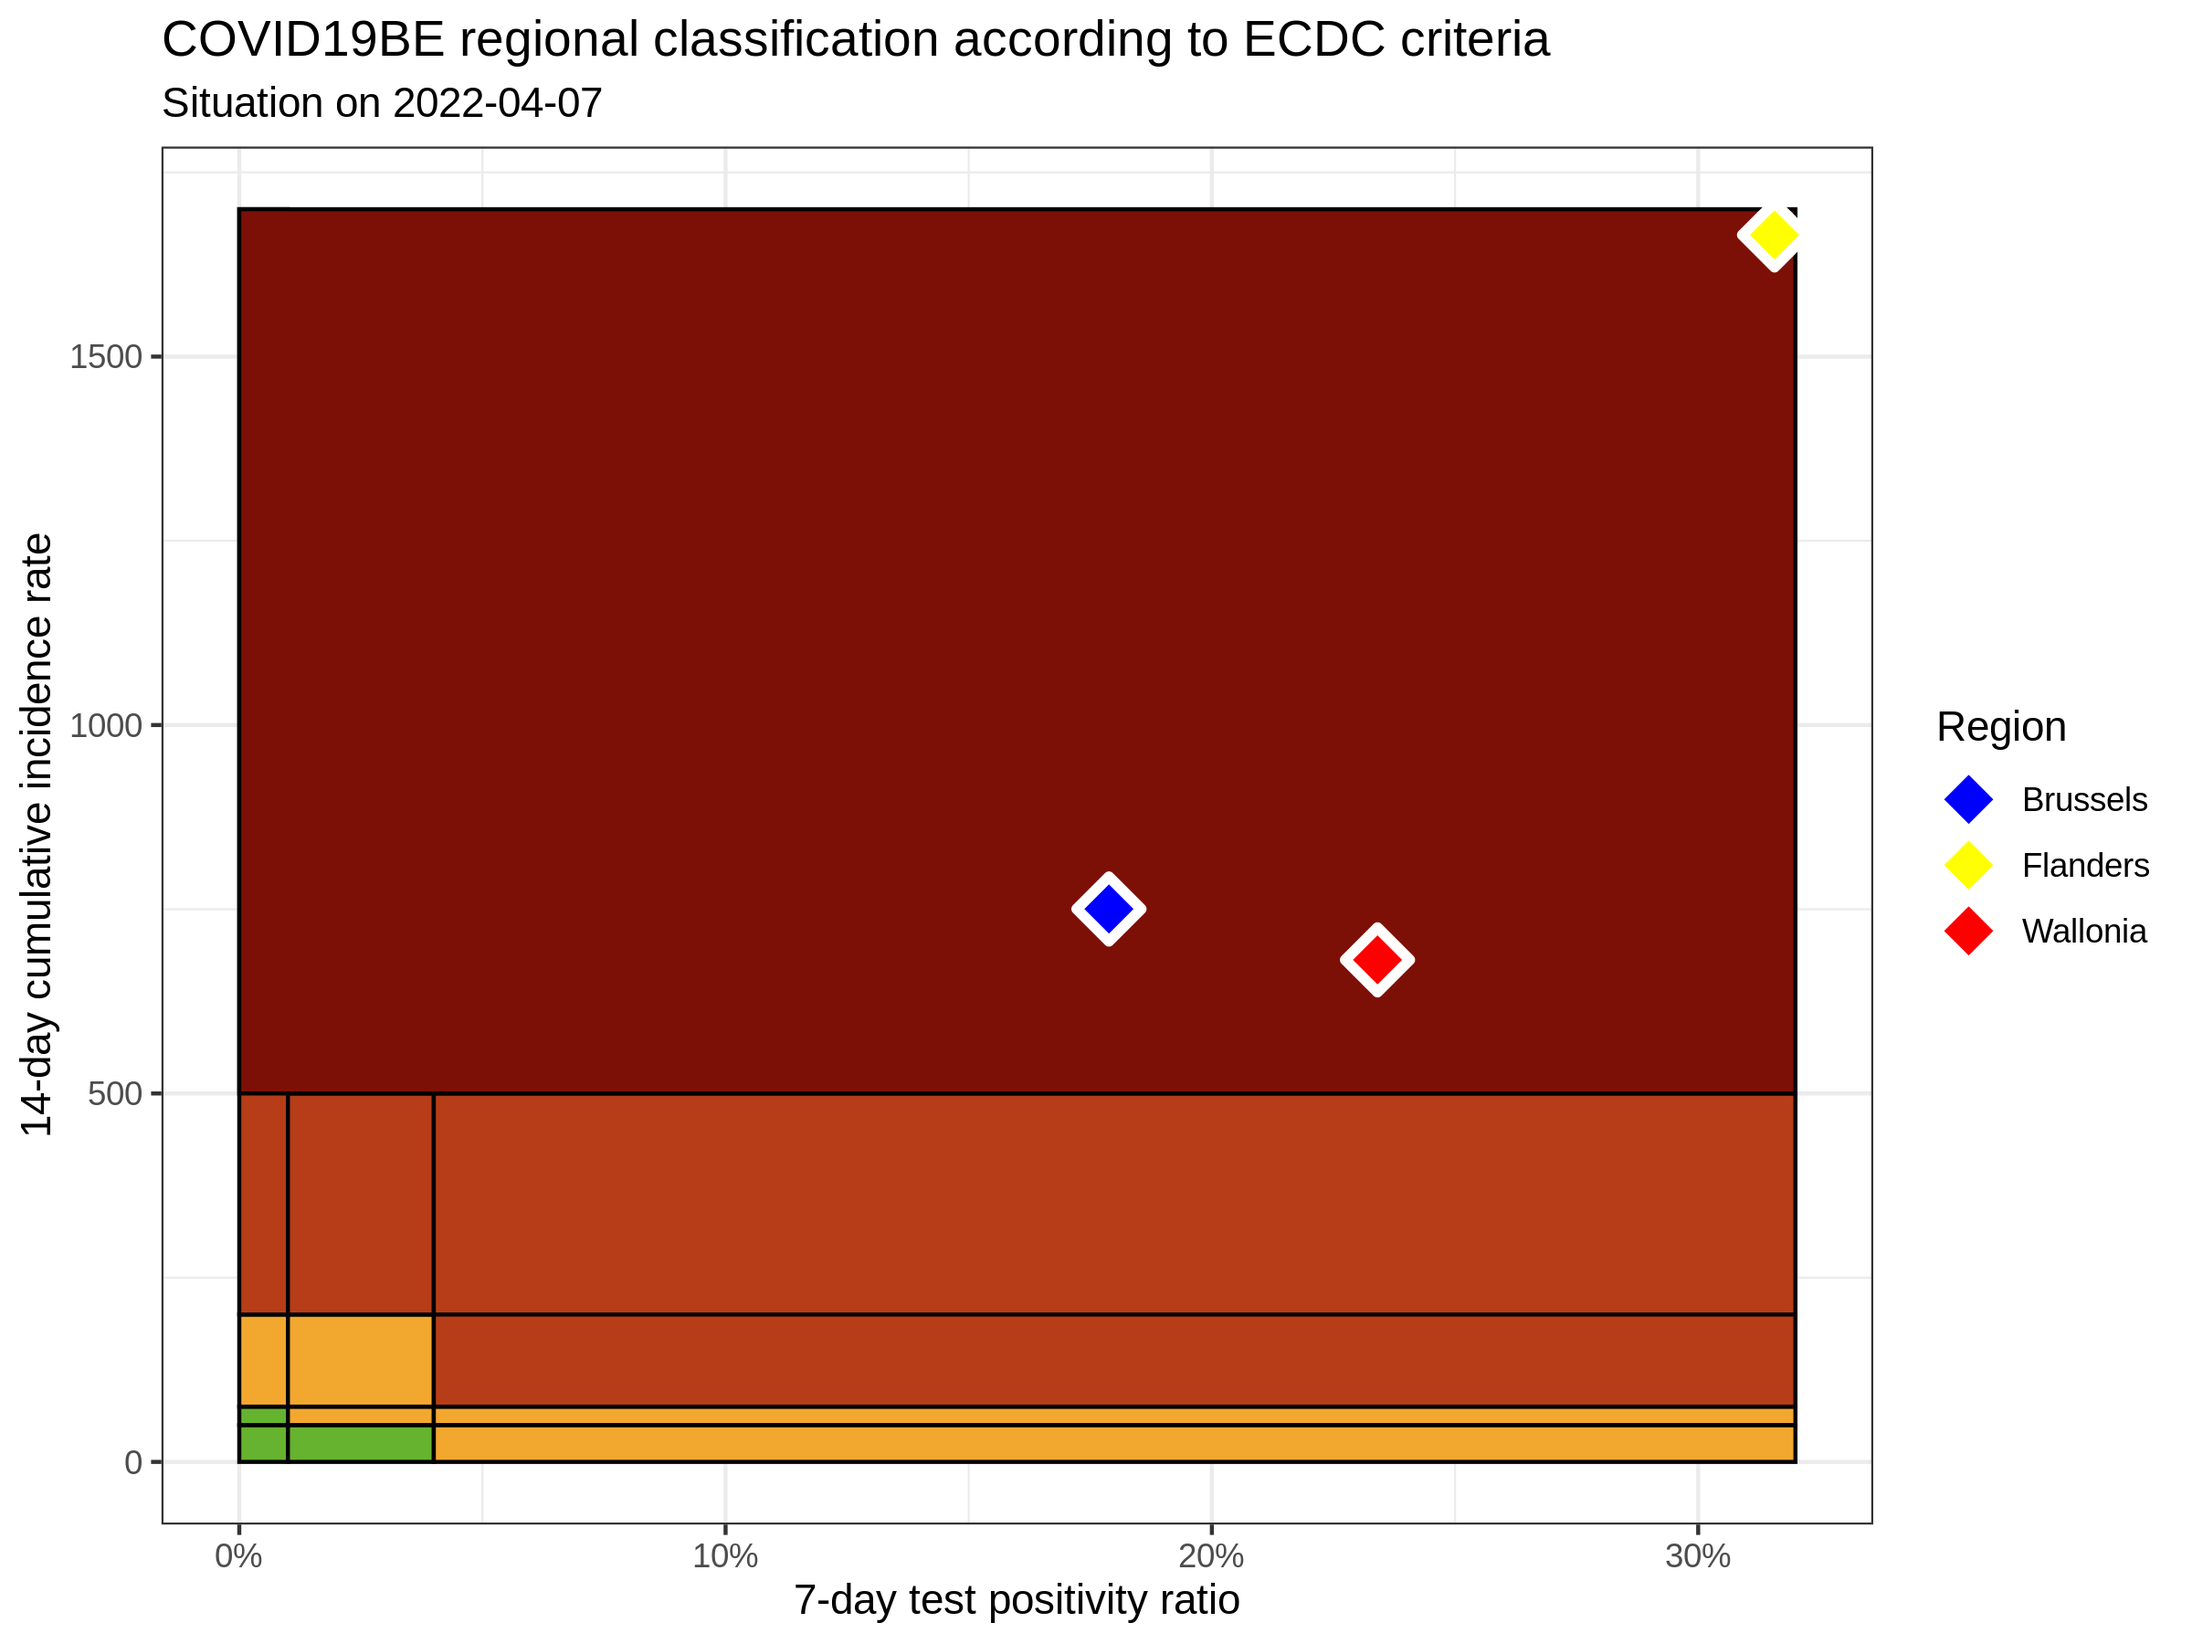
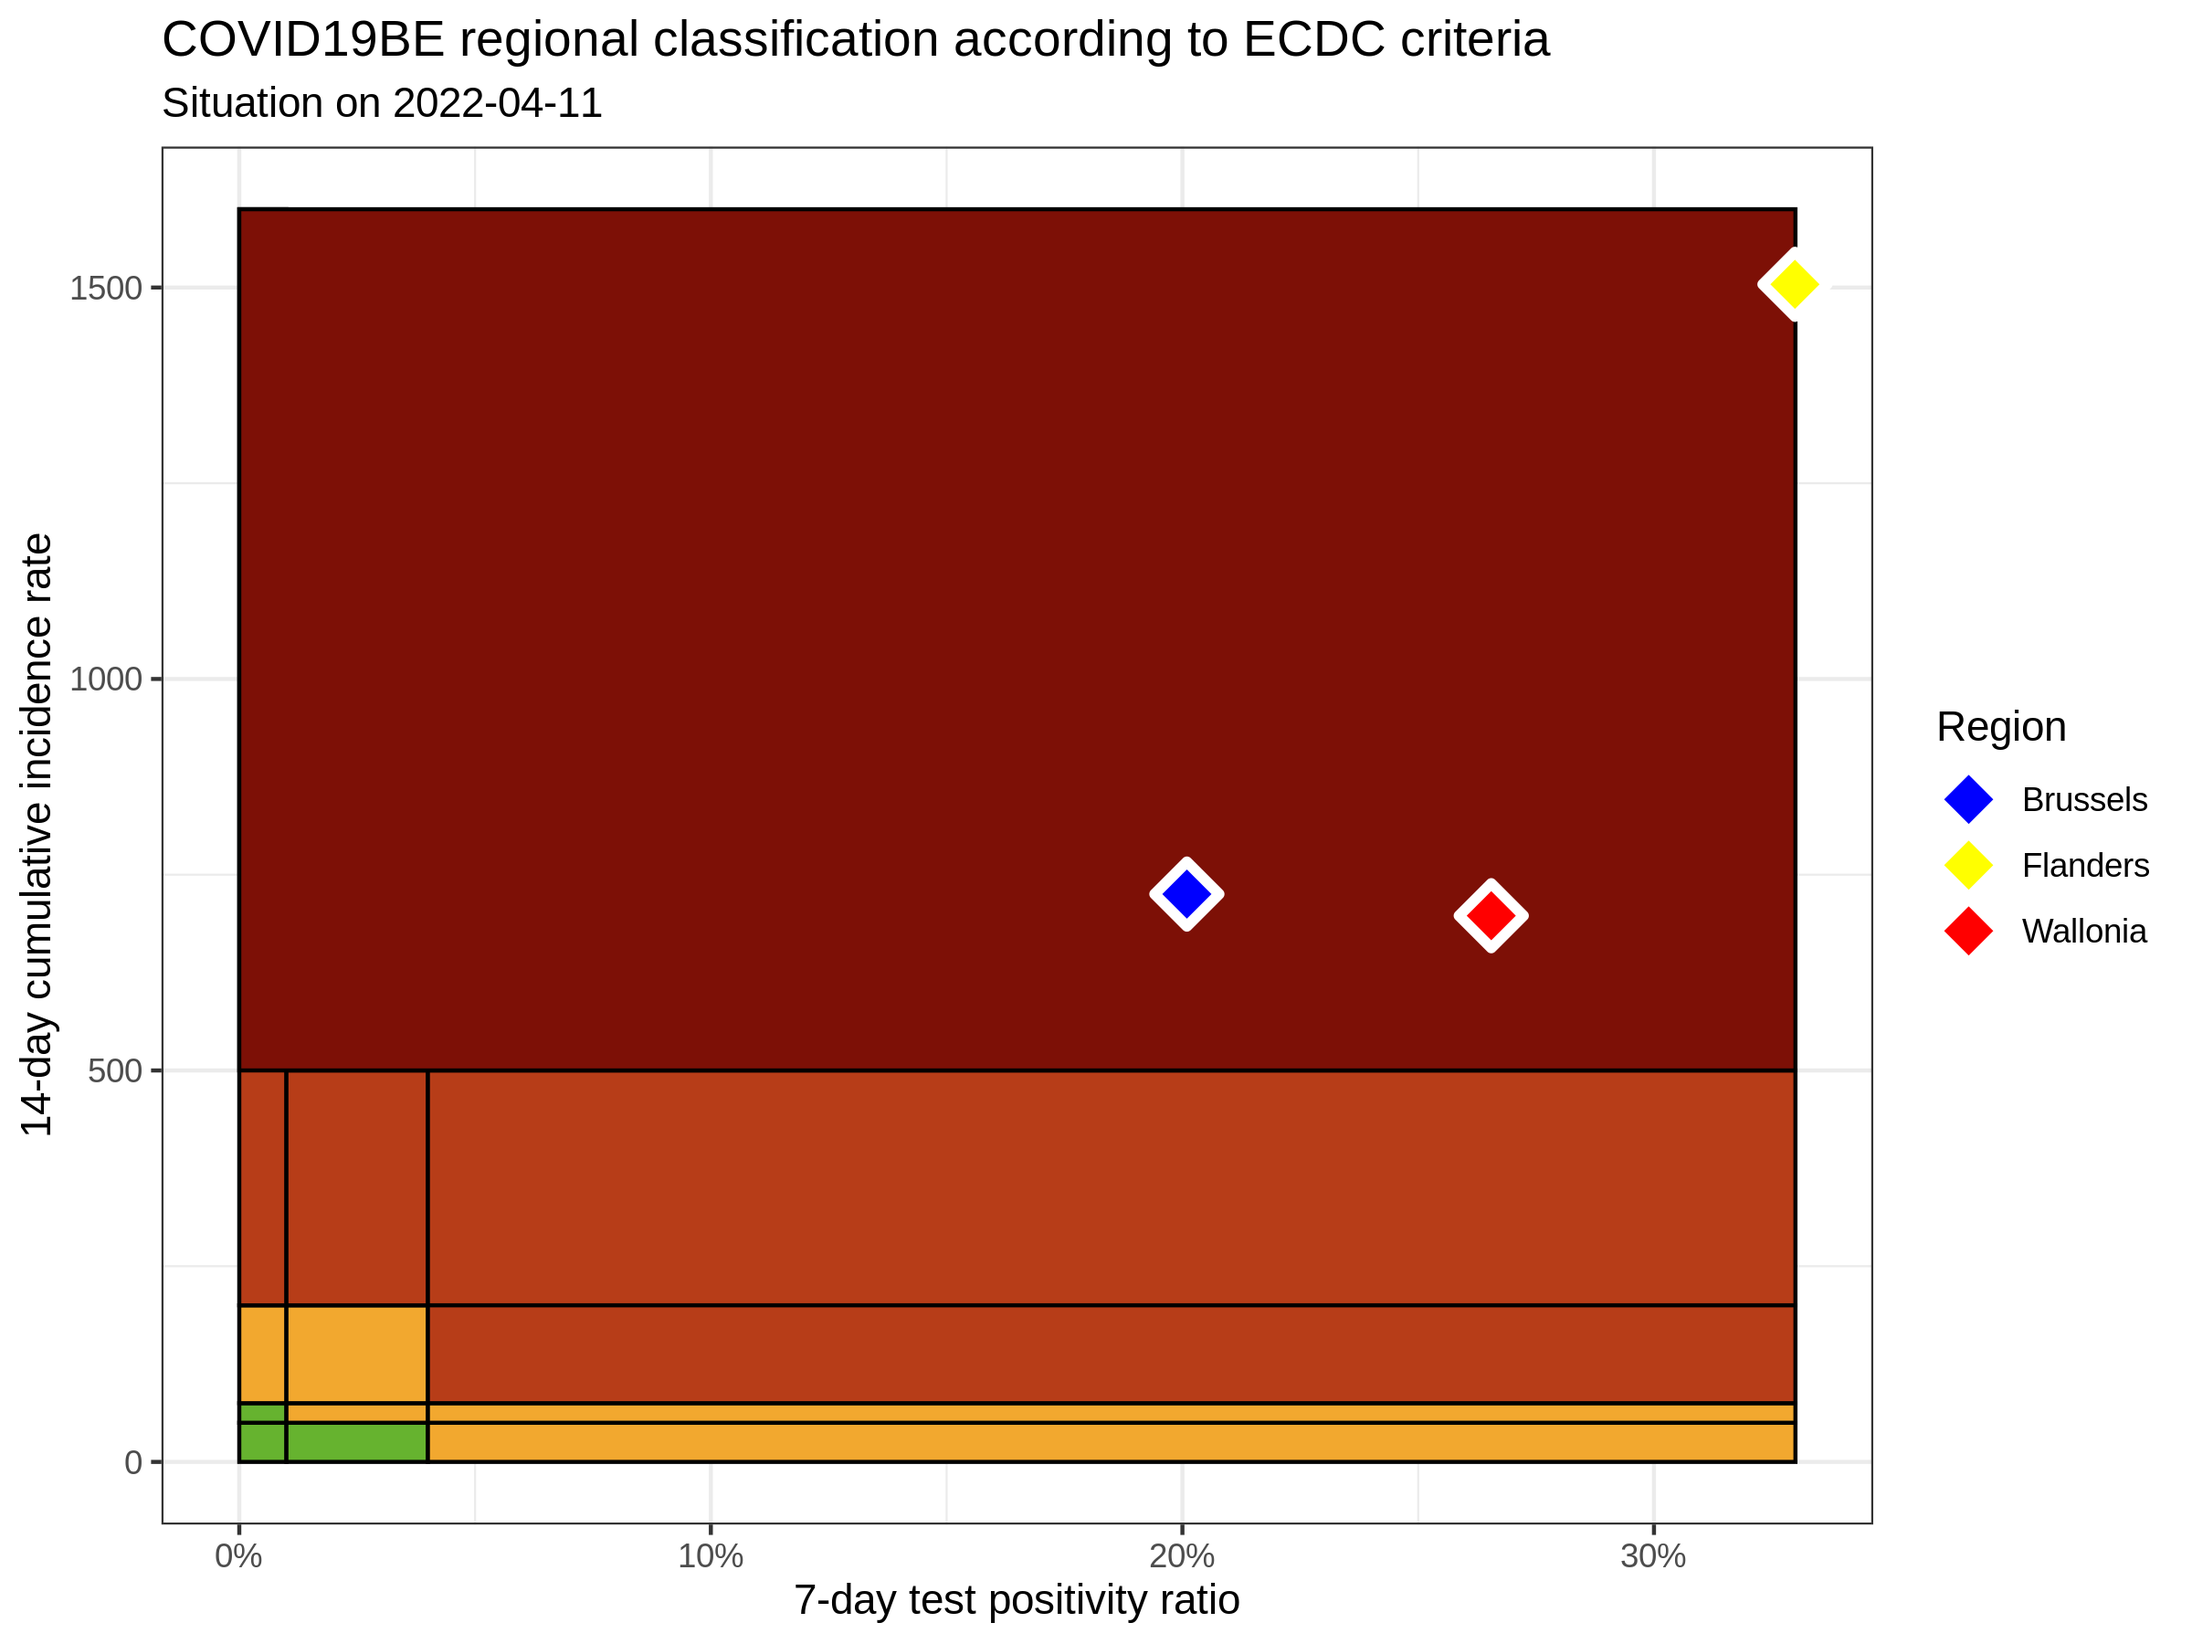
update situation

diff --git a/ecdc-trend/README.md b/ecdc-trend/README.md
@@ -11,9 +11,9 @@
 
 |          |  INC14 |  INC7 |   TST7 | TST\_POS7 | REGION   |     POP | INC14\_RT |       PR7 |          GR |
 | :------- | -----: | ----: | -----: | --------: | :------- | ------: | --------: | --------: | ----------: |
-| Brussels |   9154 |  4458 |  27221 |      4868 | Brussels | 1219970 |  750.3463 | 0.1788325 | \-0.0506814 |
-| Flanders | 110780 | 50042 | 175949 |     55547 | Flanders | 6653062 | 1665.0980 | 0.3156994 | \-0.1761006 |
-| Wallonia |  24855 | 12486 |  58080 |     13594 | Wallonia | 3648206 |  681.2938 | 0.2340565 |   0.0094591 |
+| Brussels |   8848 |  4189 |  23424 |      4707 | Brussels | 1219970 |  725.2637 | 0.2009477 | \-0.1008800 |
+| Flanders | 100068 | 45374 | 150087 |     49513 | Flanders | 6653062 | 1504.0894 | 0.3298953 | \-0.1704026 |
+| Wallonia |  25451 | 12726 |  51376 |     13640 | Wallonia | 3648206 |  697.6306 | 0.2654936 |   0.0000786 |
 
 ### Read more
 
